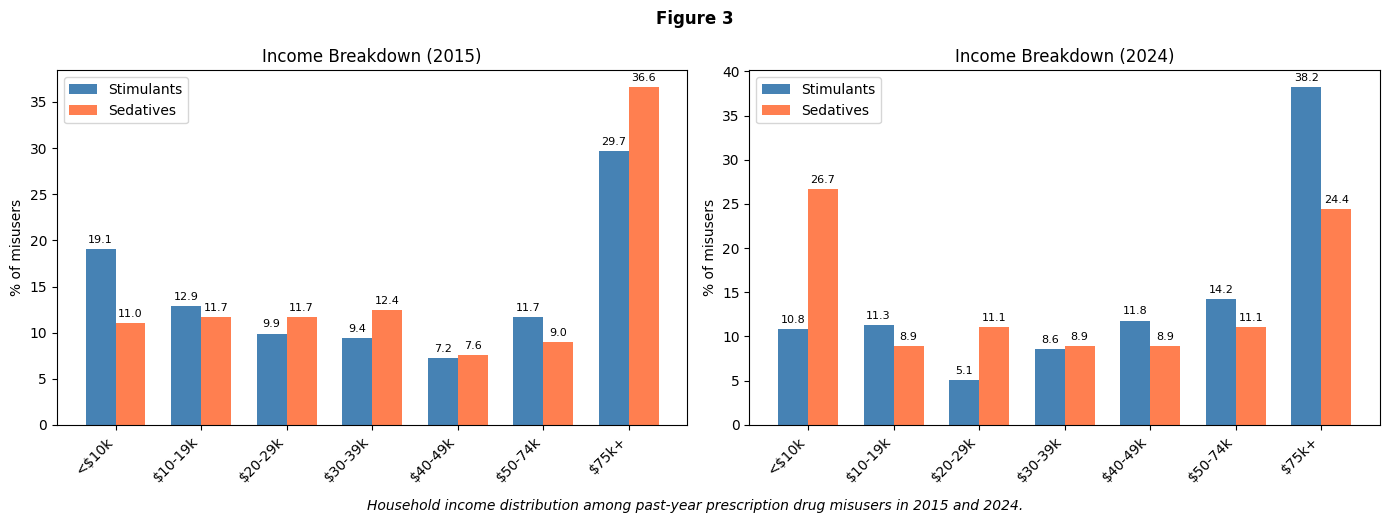
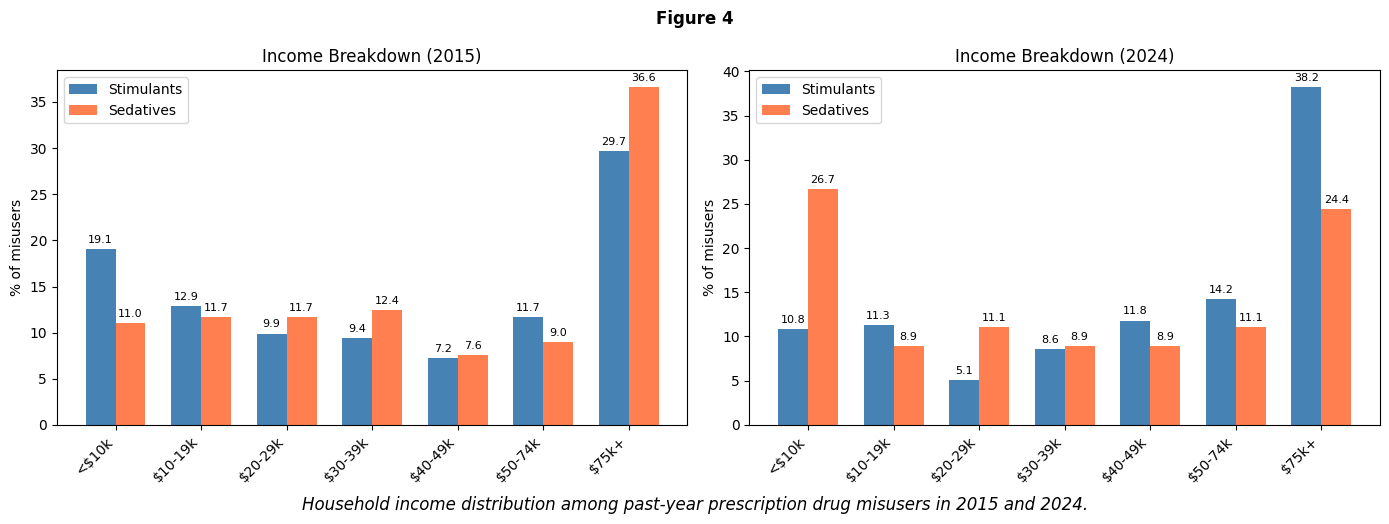
Continued edits, added new visualizations and updated captions for clarity and consistency.

diff --git a/scripts/visualize.py b/scripts/visualize.py
@@ -87,7 +87,7 @@ def plot_income_breakdown(output_dir, stim_2015, stim_2024, sed_2015, sed_2024, 
     ax2.legend()
 
     fig.suptitle(f'Figure {figure_num}', fontsize=12, fontweight='bold')
-    fig.text(0.5, -0.02, caption, ha='center', fontsize=10, style='italic', wrap=True)
+    fig.text(0.5, -0.02, caption, ha='center', fontsize=12, style='italic', wrap=True)
     plt.tight_layout()
     save_plot('income_breakdown.png', output_dir)
 
@@ -137,3 +137,61 @@ def plot_race_rates(output_dir, groups, stim_2015, stim_2024, sed_2015, sed_2024
     fig.text(0.5, -0.02, caption, ha='center', fontsize=10, style='italic', wrap=True)
     plt.tight_layout()
     save_plot('race_rates.png', output_dir)
+
+def plot_misuse_counts(output_dir, years, series, figure_num, caption):
+    fig, ax = plt.subplots(figsize=(10, 5))
+    for name, values in series.items():
+        ax.plot(years, values, marker='o', label=name)
+        for x, y in zip(years, values):
+            ax.annotate(f'{y}', xy=(x, y), xytext=(0, 6),
+                       textcoords='offset points', ha='center', fontsize=8)
+    ax.set_xlabel('Year')
+    ax.set_ylabel('Number of Misusers (Ages 16-25)')
+    ax.set_title('Prescription Drug Misuse Trend 2015-2024')
+    ax.legend()
+    fig.suptitle(f'Figure {figure_num}', fontsize=12, fontweight='bold')
+    fig.text(0.5, -0.02, caption, ha='center', fontsize=10, style='italic', wrap=True)
+    plt.tight_layout()
+    save_plot('misuse_counts.png', output_dir)
+
+def plot_population_income(output_dir, income_2015, income_2024, labels, figure_num, caption):
+    fig, (ax1, ax2) = plt.subplots(1, 2, figsize=(14, 5))
+    x = range(len(labels))
+    width = 0.6
+
+    bars1 = ax1.bar(x, income_2015, width=width, color='steelblue')
+    add_bar_labels(ax1, bars1)
+    ax1.set_xticks(x)
+    ax1.set_xticklabels(labels, rotation=45, ha='right')
+    ax1.set_ylabel('% of sample')
+    ax1.set_title('Population Income Distribution (2015)')
+
+    bars2 = ax2.bar(x, income_2024, width=width, color='mediumpurple')
+    add_bar_labels(ax2, bars2)
+    ax2.set_xticks(x)
+    ax2.set_xticklabels(labels, rotation=45, ha='right')
+    ax2.set_ylabel('% of sample')
+    ax2.set_title('Population Income Distribution (2024)')
+
+    fig.suptitle(f'Figure {figure_num}', fontsize=12, fontweight='bold')
+    fig.text(0.5, -0.02, caption, ha='center', fontsize=12, style='italic', wrap=True)
+    plt.tight_layout()
+    save_plot('population_income.png', output_dir)
+
+def plot_distress_with_nonusers(output_dir, stim_2015, stim_2024, sed_2015, sed_2024, non_2015, non_2024, figure_num, caption):
+    labels = ['Stimulants\n2015', 'Stimulants\n2024', 'Sedatives\n2015', 'Sedatives\n2024', 'Non-Misusers\n2015', 'Non-Misusers\n2024']
+    values = [stim_2015, stim_2024, sed_2015, sed_2024, non_2015, non_2024]
+    colors = ['steelblue', 'steelblue', 'coral', 'coral', 'mediumpurple', 'mediumpurple']
+    alphas = [1, 0.5, 1, 0.5, 1, 0.5]
+
+    fig, ax = plt.subplots(figsize=(12, 5))
+    bars = [ax.bar(i, values[i], color=colors[i], alpha=alphas[i], width=0.6) for i in range(len(values))]
+    for bar in bars:
+        add_bar_labels(ax, bar)
+    ax.set_xticks(range(len(labels)))
+    ax.set_xticklabels(labels)
+    ax.set_ylabel('% with serious psychological distress')
+    fig.suptitle(f'Figure {figure_num}', fontsize=12, fontweight='bold')
+    fig.text(0.5, -0.02, caption, ha='center', fontsize=12, style='italic', wrap=True)
+    plt.tight_layout()
+    save_plot('distress_with_nonusers.png', output_dir)
